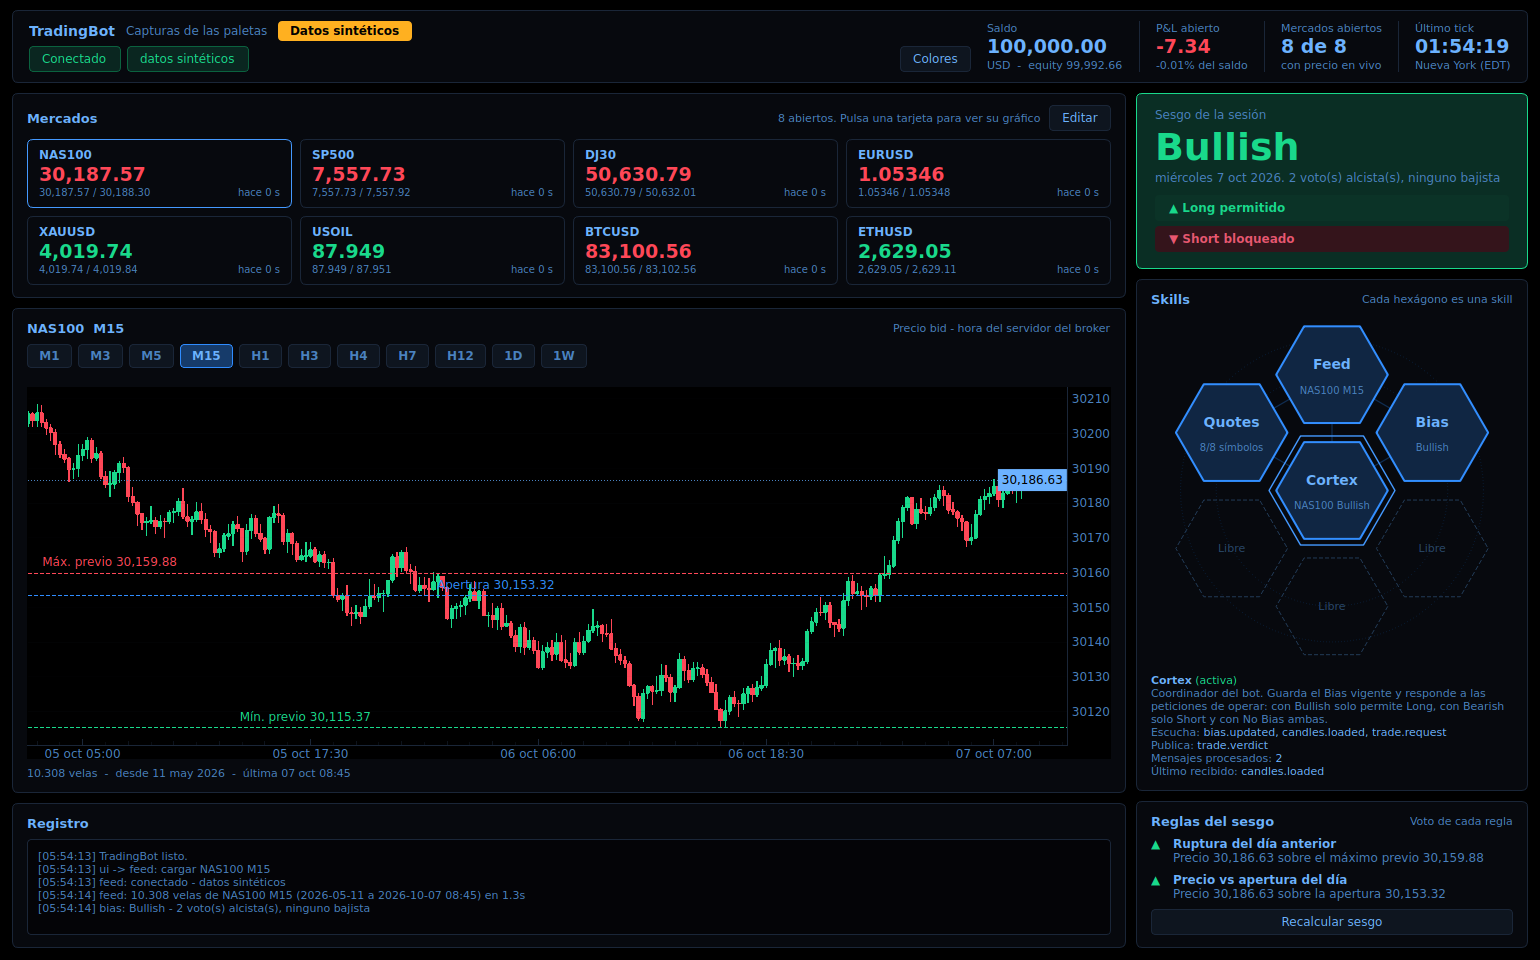
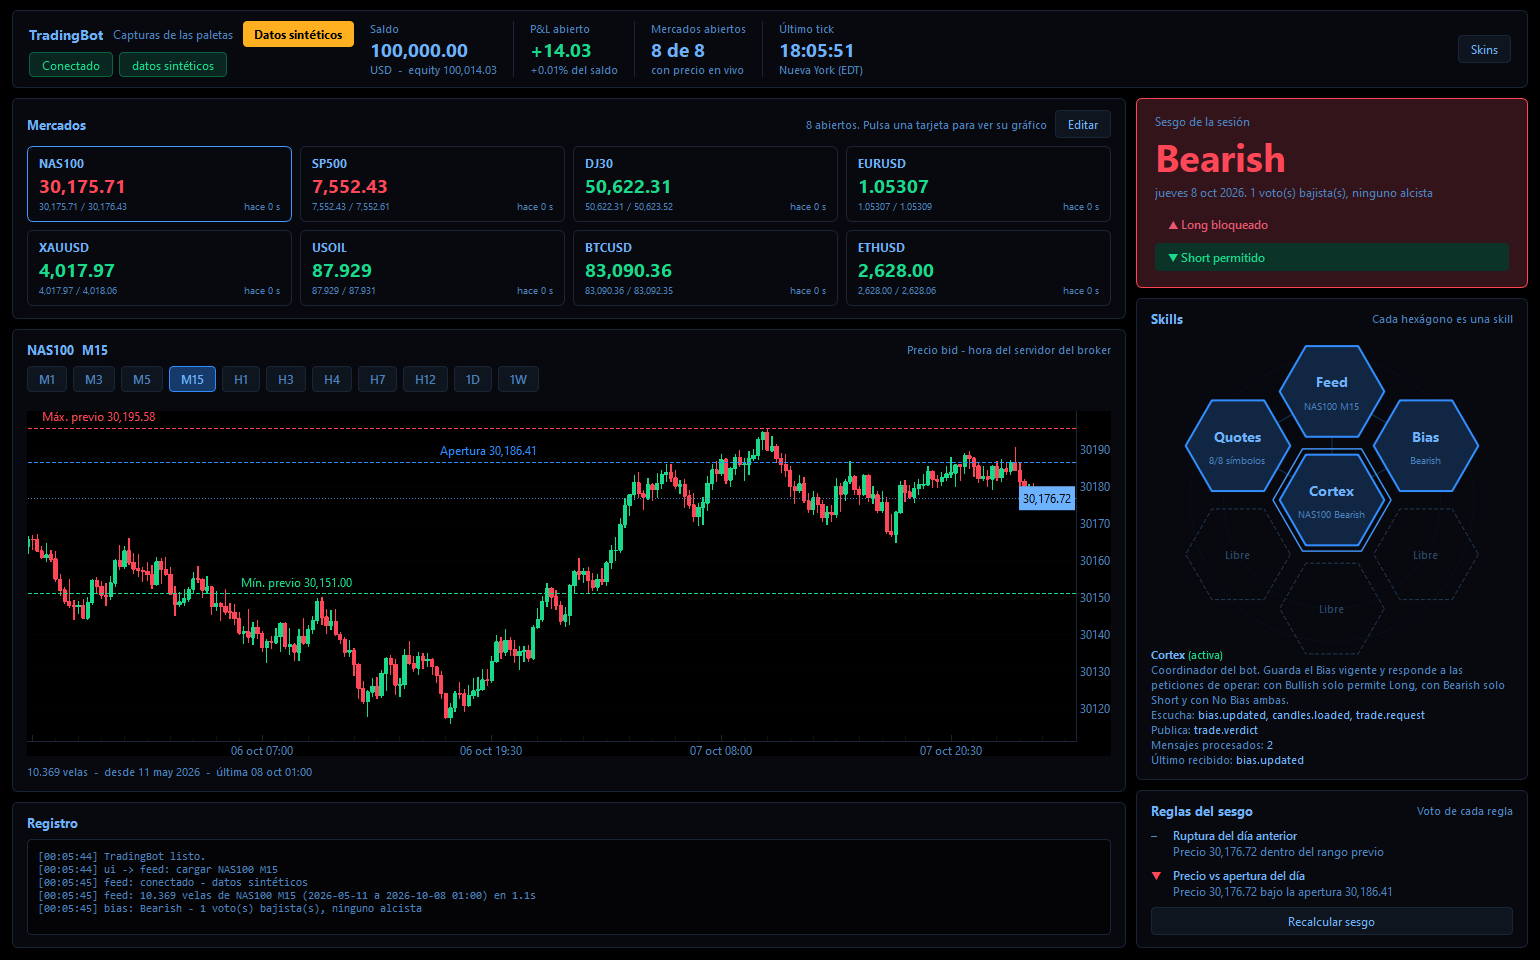
Cabecera: el botón Colores pasa a llamarse Skins y va a la esquina derecha
- Saldo, P&L abierto, Mercados abiertos y Último tick se colocan justo a
  continuación de la información de la cuenta conectada.
- El botón Skins ocupa la esquina superior derecha; el editor también se
  titula Skins.
- README y capturas de las paletas actualizados.

diff --git a/tradingbot/ui/main_window.py b/tradingbot/ui/main_window.py
@@ -132,12 +132,9 @@ class MainWindow(QMainWindow):
         chips.addWidget(self.status)
         chips.addWidget(self.account)
         chips.addStretch(1)
-        self.colors_btn = QPushButton("Colores")
-        self.colors_btn.setToolTip("Personalizar los colores de la interfaz")
-        chips.addWidget(self.colors_btn)
         left.addLayout(title_row)
         left.addLayout(chips)
-        h.addLayout(left, 1)
+        h.addLayout(left)
 
         self.stat_balance = StatBlock("Saldo")
         self.stat_pnl = StatBlock("P&L abierto")
@@ -149,6 +146,12 @@ class MainWindow(QMainWindow):
                 divider.setObjectName("StatDivider")
                 h.addWidget(divider)
             h.addWidget(block)
+
+        # Las cifras van justo después de la cuenta; el botón Skins, solo en la esquina derecha.
+        h.addStretch(1)
+        self.colors_btn = QPushButton("Skins")
+        self.colors_btn.setToolTip("Cambiar la paleta (skin) y personalizar los colores de la interfaz")
+        h.addWidget(self.colors_btn, 0, Qt.AlignRight | Qt.AlignVCenter)
         return bar
 
     def _build_left(self, app_cfg: dict) -> QVBoxLayout:

diff --git a/tradingbot/ui/theme_dialog.py b/tradingbot/ui/theme_dialog.py
@@ -26,7 +26,7 @@ class ThemeDialog(QDialog):
     def __init__(self, parent, preset: str, palette: Palette,
                  on_change: Callable[[str, Palette], None]) -> None:
         super().__init__(parent)
-        self.setWindowTitle("Colores")
+        self.setWindowTitle("Skins")
         self.setMinimumWidth(380)
         self.preset, self.palette, self._on_change = preset, palette, on_change
         self.swatches: dict[str, QPushButton] = {}

diff --git a/README.md b/README.md
@@ -11,7 +11,7 @@ tarjetas de mercado, gráfico de velas verde azulado/coral y, a la derecha, el s
 | Conexión y velas | Conecta con MT5 usando la cuenta del `.env` y carga todas las velas posibles en 1m, 3m, 5m o 15m (por defecto 15m). |
 | Bias | Evalúa las reglas y decide el sesgo del día: **Bullish**, **Bearish** o **No Bias**. Se muestra en un recuadro fijo de la interfaz. |
 
-Cabecera: estado de la conexión, cuenta, saldo/equity, P&L abierto, mercados con precio en vivo y hora del último tick
+Cabecera: estado de la conexión y cuenta; a continuación, saldo/equity, P&L abierto, mercados con precio en vivo y hora del último tick
 **en hora de Nueva York**. MT5 entrega los ticks en la hora del servidor de tu broker; el bot mide el desfase de ese
 servidor comparando los ticks en vivo con el reloj de tu PC (unos segundos tras conectar) y convierte a Nueva York
 respetando el cambio de horario de EE. UU. Hasta que lo mide, la hora se marca como *(estimada)* y asume servidor = Nueva York + 7 h.
@@ -177,7 +177,7 @@ rejilla se pinta con ese color exacto y también en vertical.
 Cómo personalizarlo:
 
 1. **`tradingbot.env`**: `UI_THEME` elige la paleta de arranque.
-2. **Botón "Colores"** de la cabecera: cambia de paleta o retoca cada color con un selector, y se ve al instante.
+2. **Botón "Skins"**, en la esquina superior derecha de la cabecera: cambia de paleta o retoca cada color con un selector, y se ve al instante.
    *Guardar* deja esa paleta como la de arranque (cambia `UI_THEME` en `tradingbot.env`) y guarda tus colores
    retocados en `theme.local.json` (no se sube a git).
 3. **`config.toml`**, sección `[theme]`: colores sueltos (`#RRGGBB`) que se aplican encima de la paleta de arranque.
